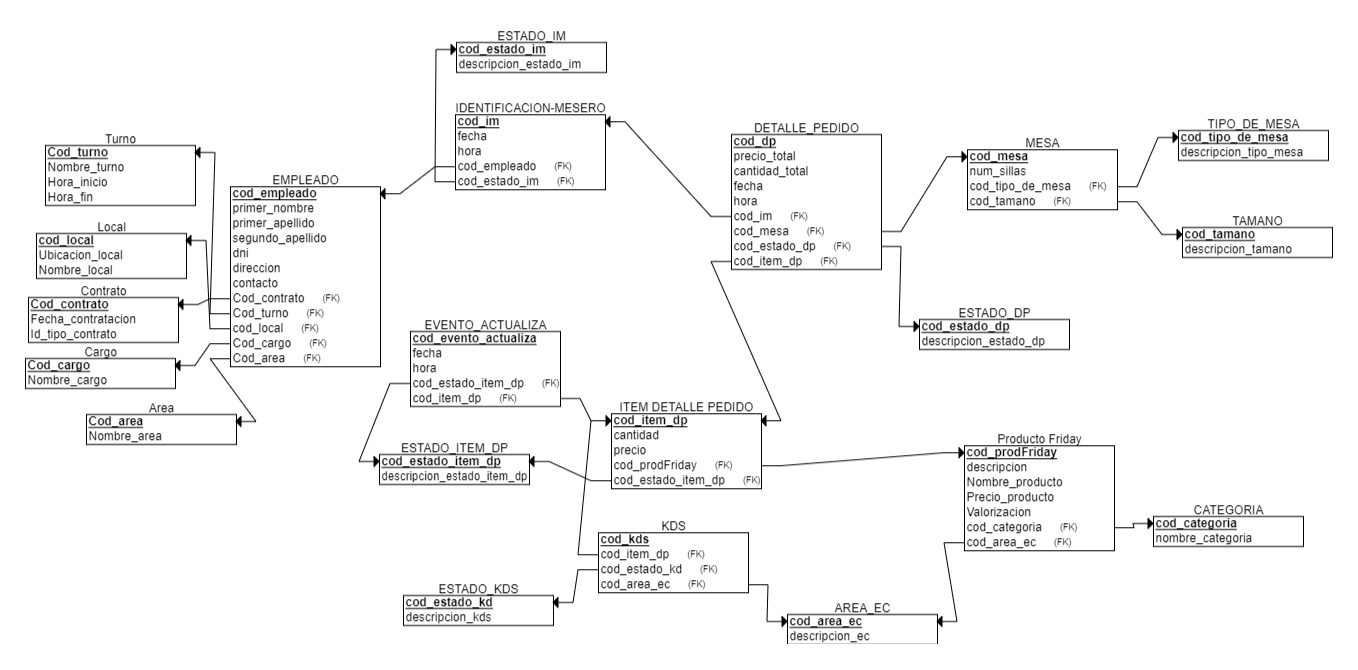
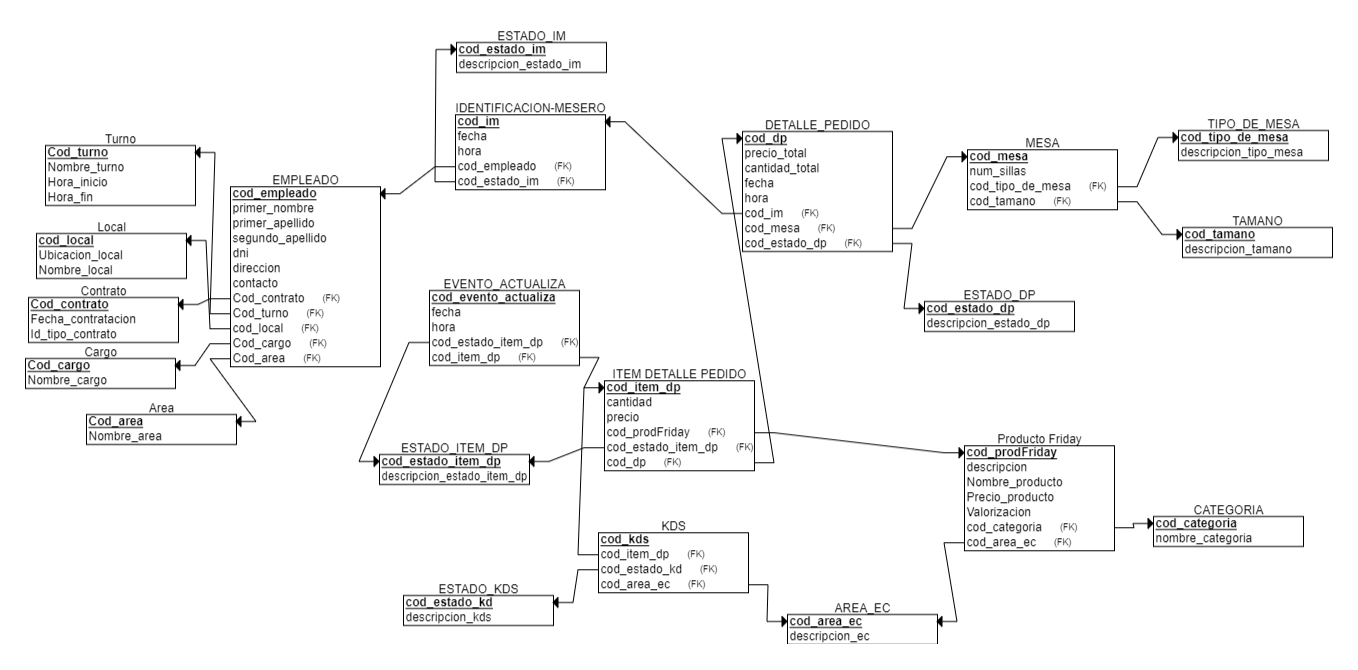
dsd

diff --git a/5/5.2/5.2.md b/5/5.2/5.2.md
@@ -798,16 +798,6 @@ TAB 6
     <td>Indica a qué hora se realizó el pedido</td>
   </tr>
   <tr>
-    <td>Cod_item_dp</td>
-    <td>CHAR</td>
-    <td>X(10)</td>
-    <td>X[0,9][a-z][A-Z]</td>
-    <td>-</td>
-    <td>-</td>
-    <td>Correlativo del ítem del detalle de pedido</td>
-    <td>indica el ítem del detalle de pedido</td>
-  </tr>
-  <tr>
     <td>Cod_mesa</td>
     <td>CHAR</td>
     <td>X(3)</td>
@@ -891,6 +881,16 @@ TAB 6
     <td>-</td>
     <td>Correlativo al producto que ofrece Friday</td>
     <td>Indica el producto asociado al ítem</td>
+  </tr>
+  <tr>
+    <td>Cod_dp</td>
+    <td>CHAR</td>
+    <td>X(10)</td>
+    <td>9 dígitos [0,9]</td>
+    <td>-</td>
+    <td>-</td>
+    <td>Correlativo del detalle del pedido</td>
+    <td>Identifica el detalle de pedido</td>
   </tr>
 </table>
 
